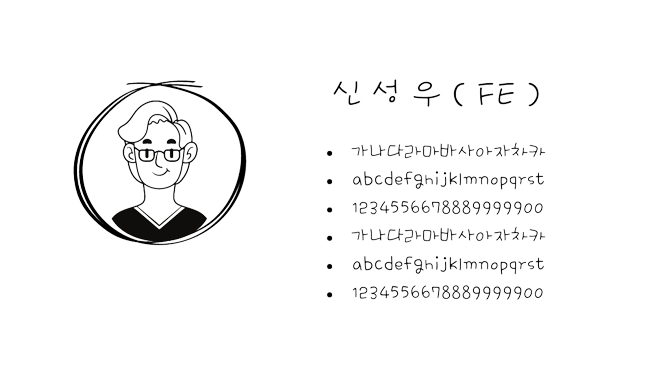
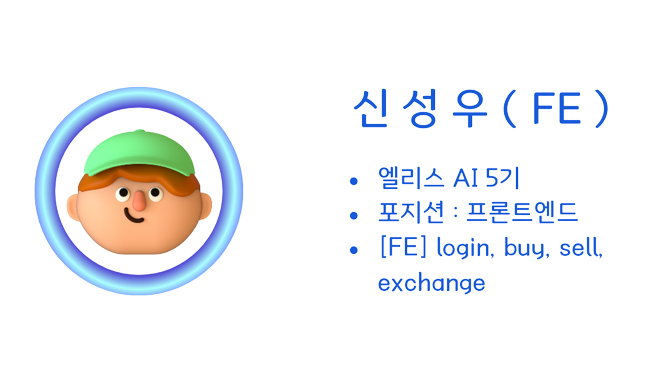
[FE/REFEAT](메인 네비게이션, 마지막 배너) 컬러 수정, 팀소개 수정

diff --git a/front/src/pages/Main.js b/front/src/pages/Main.js
@@ -79,8 +79,8 @@ function Main() {
   };
 
   function NavBtn(idx) {
-    let color = ['white', 'white', 'white', 'white', 'white'];
-    color[idx.idx - 1] = 'black';
+    let color = ['none', 'none', 'none', 'none', 'none'];
+    color[idx.idx - 1] = 'blue';
     return (
       <>
         {elementNum.map((ele, index) => (
@@ -214,7 +214,7 @@ function Main() {
           </NavBar>
         </StyledBannerWrapper>
 
-        <StyledBannerWrapper backgroundColor="#E1FFE1" position="relative" ref={fifth}>
+        <StyledBannerWrapper backgroundColor="#E5E8F6" position="relative" ref={fifth}>
           <LastStyledContent>
             <p>함께하는 사람들</p>
             <div>
@@ -681,7 +681,7 @@ const NavBar = styled.div`
 
   & div {
     margin: 10px;
-    border: 2px solid black;
+    border: 2px solid blue;
     width: 20px;
     height: 20px;
     border-radius: 50%;
